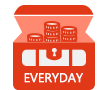
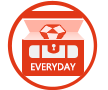
更换图片

diff --git a/app/views/main.html b/app/views/main.html
@@ -59,20 +59,18 @@
         </div>
         <div class="col-xs-12 hongcai-body">
           <div class="col-xs-4" ng-repeat="item in activityList | limitTo: 3">
-            <div class="row">
-              <div class="row" ng-if="item.status === 7">
+            <div class="row {{item.status === 7 ? 'hongbao-red' : 'hongbao-grey'}}">
+              <!--<div class="row" ng-if="item.status === 7">
                 <img src="/images/main_hongbao_red.png" alt="宏运标" >
               </div>
               <div class="row" ng-if="item.status !== 7">
                 <img src="/images/main_hongbao_gray.png" alt="宏运标" >
-              </div>
-              <div class="col-xs-6">
+              </div>-->
                 <h4>{{ item.name | limitTo:5}}</h4>
                 <small>{{ item.releaseStartTime | date: 'yyyy-MM-dd' }}</small>
                 <h4>10% + <span>90%</span></h4>
                 <small>年化收益</small>
                 <a ui-sref="root.activity-details({activityId: item.id, type: 2})" class="btn btn-primary" role="button">查看详情</a>
-              </div>
             </div>
           </div>
         </div>
@@ -325,17 +323,14 @@
             <div class="panel-body">
               <div class="row">
                 <div class="col-xs-9"><a ui-sref='root.help-center.introduce'>宏财网是做什么的网站？</a></div>
-                <div class="col-xs-3 text-right">09-11</div>
               </div>
 
               <div class="row">
                 <div class="col-xs-9"><a ui-sref='root.help-center.introduce'>宏财网安全吗？</a></div>
-                <div class="col-xs-3 text-right">09-11</div>
               </div>
 
               <div class="row">
                 <div class="col-xs-9"><a ui-sref='root.help-center.introduce'>一旦借款人无法偿还怎么办？</a></div>
-                <div class="col-xs-3 text-right">09-11</div>
               </div>
             </div>
           </div>

diff --git a/app/views/help-center/account-management.html b/app/views/help-center/account-management.html
@@ -43,7 +43,7 @@
 		<p class="col-md-10 col-lg-10 col-md-offset-1 col-lg-offset-1" ng-if="changeAccountQ7 == true">宏财网收到用户提现申请后即对提现进行转账操作，由于不同银行处理速度不同，提现资金将会当天或下个工作日到账（如遇双休日或法定节假日顺延）。如果用户迟迟未收到提现资金，可能为银行卡信息填写有误，银行做正在退票操作，预计会在7个工作日内完成退票，请用户耐心等候。用户还可以联系客服（400-990-7626），寻求帮助。</p>
 	</div>
 	<div class="row">
-		<div class="help-ico {{changeAccountQ8 == true ? 'open' : ''}} col-md-offset-1 col-lg-offset-1" ng-click="changeAccountQ7 =! changeAccountQ8"></div>
+		<div class="help-ico {{changeAccountQ8 == true ? 'open' : ''}} col-md-offset-1 col-lg-offset-1" ng-click="changeAccountQ8 =! changeAccountQ8"></div>
 		<p class="p-click" ng-click="changeAccountQ8 =! changeAccountQ8">&nbsp;提现不成功的几种情况？</p>
 		<p class="col-md-10 col-lg-10 col-md-offset-1 col-lg-offset-1" ng-if="changeAccountQ8 == true">银行账号/户名错误，或者是账号与户名不符；银行账户冻结或者正在办理挂失；
 		<br>银行卡开户行信息错误；由于信息校验不正确而导致的提现失败，

diff --git a/app/styles/dy_main.css b/app/styles/dy_main.css
@@ -965,3 +965,9 @@ input:focus{
   height: 100%;
   padding: 0;
 }
+.hongbao-grey{
+  background: url(/images/sprite.png) -290px -1743px no-repeat;
+}
+.hongbao-red{
+  background: url(/images/sprite.png) -290px -1869px no-repeat;
+}
